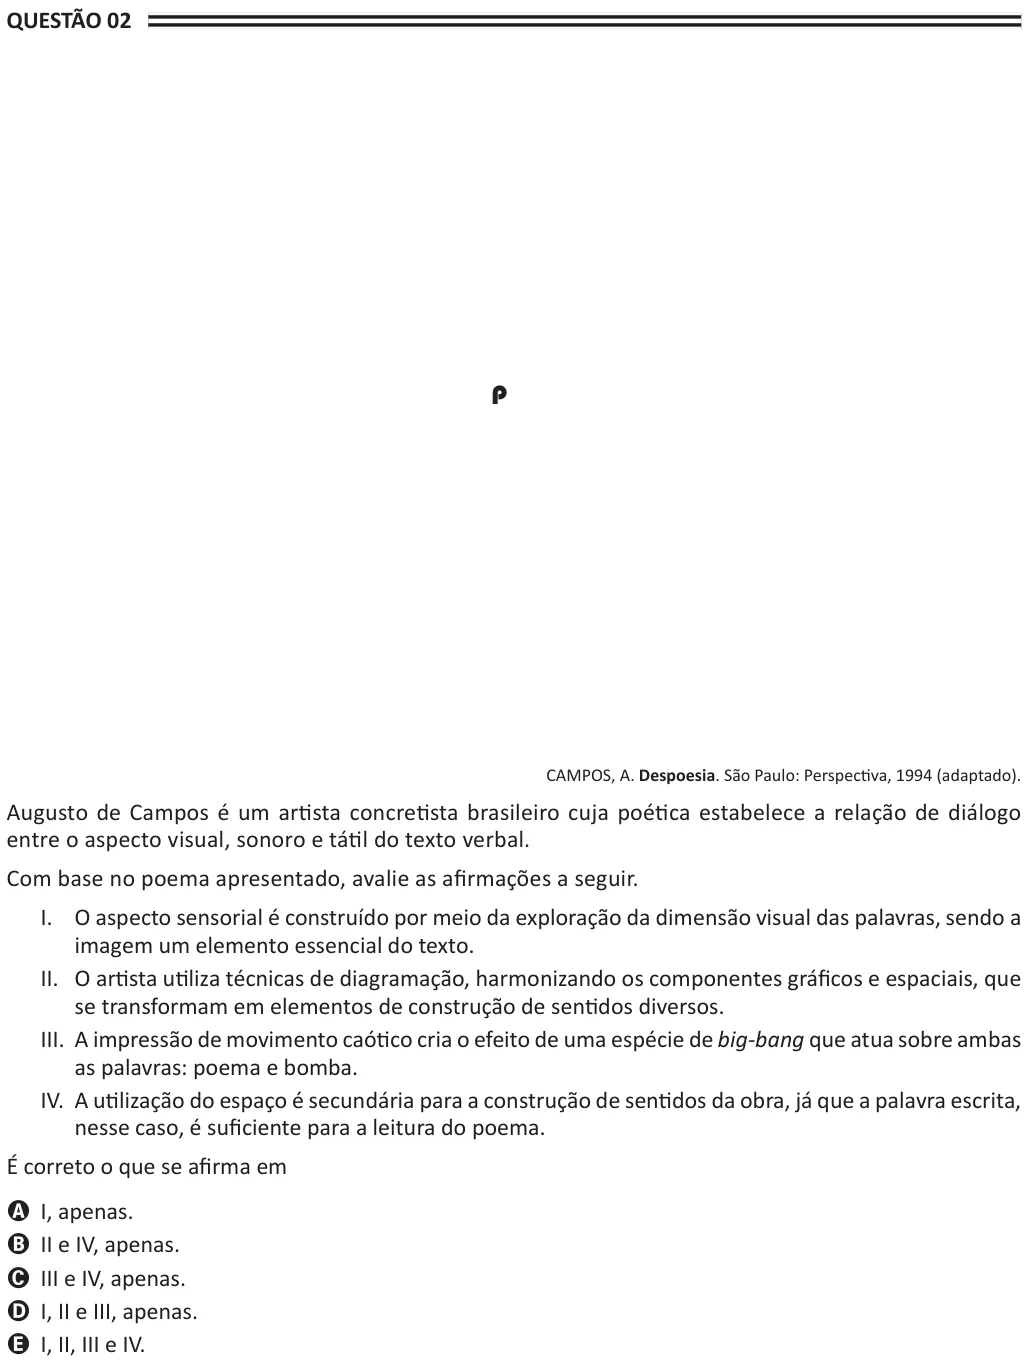
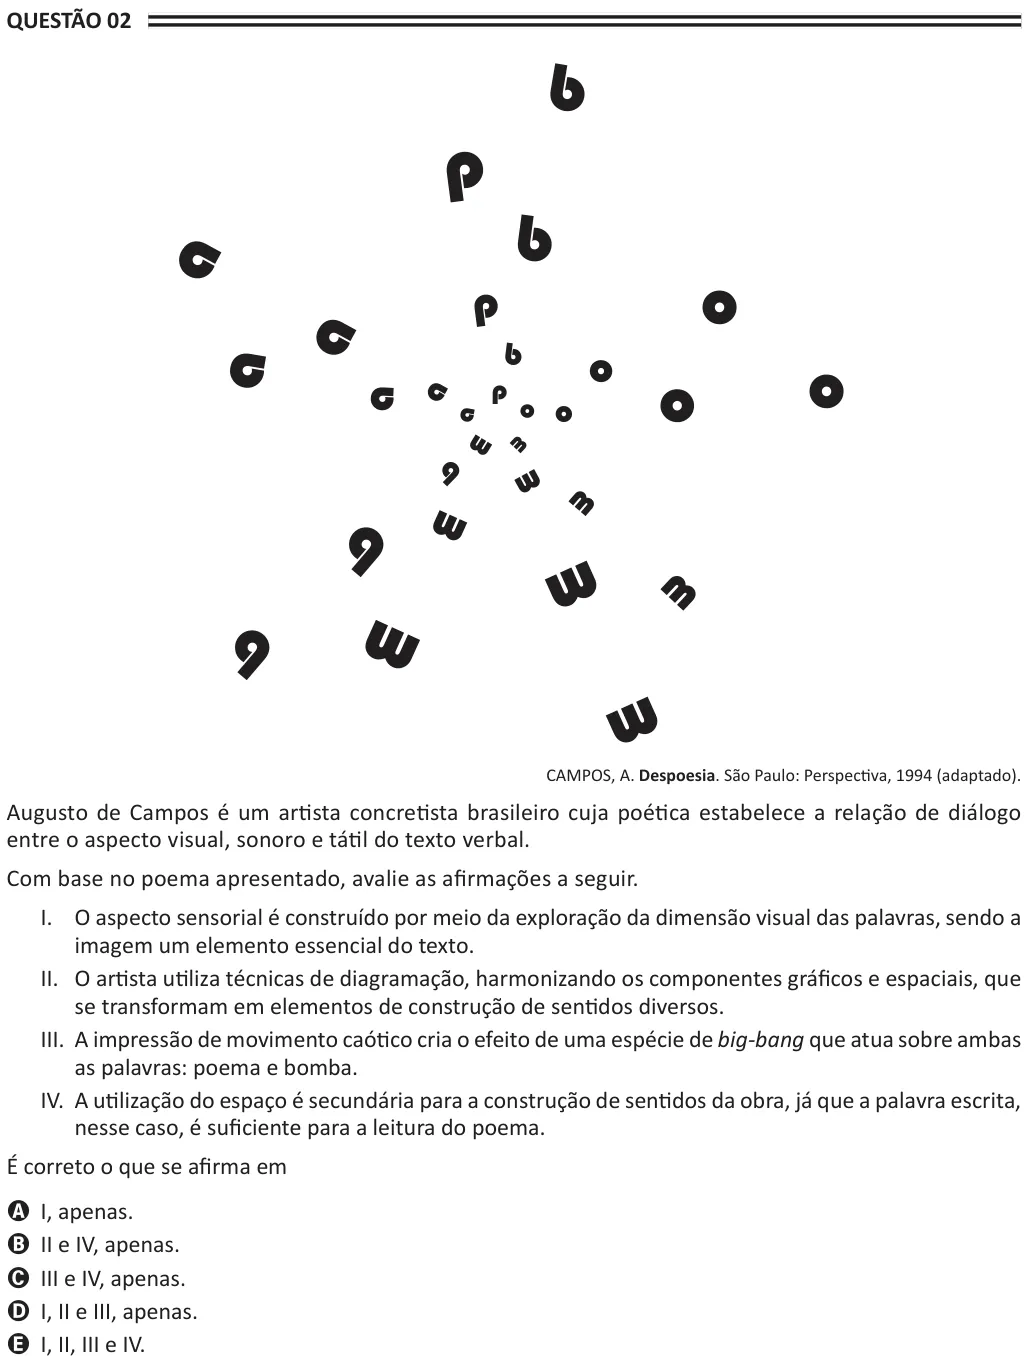
pipeline: mantém texto girado das questões e números no pé da página
O texto girado era todo mascarado como marca de página, o que apagava o
poema concreto de 2019 Q2 e rótulos de gráficos (países em 2017 Q1, anos
na diagonal em 2014 Q3, eixos verticais). Agora só são mascarados o
aviso de recorte, o "Continua" em curva e marcas repetidas na mesma
posição em várias páginas.

O cabeçalho/rodapé repetido passa a exigir a mesma posição horizontal, e
o rótulo de rodapé exige letras, para não apagar opções numéricas como
0111/1011 (2008 Q43).

diff --git a/pipeline/questions.py b/pipeline/questions.py
@@ -36,6 +36,8 @@ _SHARED = re.compile(
     re.IGNORECASE,
 )
 # Aplicado ao texto sem espaços (em 2005 o rótulo vem como "RASCUNH O").
+# Aviso de "vire a página" (em 2008 vem escrito em curva, junto de uma seta).
+_PAGE_TURN = re.compile(r"^(CONTINUA|VIREAP[ÁA]GINA)\W*$", re.IGNORECASE)
 _CUT = re.compile(r"^(RASCUNHO|.?REALIVRE)", re.IGNORECASE)
 # Título de bloco por ênfase nos cadernos de Engenharia Grupo II (linha inteira).
 _SECTION = re.compile(r"^(CONTROLE E AUTOMAÇÃO|ELETRÔNICA|ELETROTÉCNICA|TELECOMUNICAÇÕES)$")
@@ -46,6 +48,7 @@ _FURNITURE_BAND = 0.13  # fração da altura no topo e na base
 _FURNITURE_MIN_PAGES = 3
 _FURNITURE_MIN_SHARE = 0.2  # fração das páginas
 _FURNITURE_Y_TOLERANCE = 3.0
+_FURNITURE_X_TOLERANCE = 20.0
 _FOOTER_LABEL_MIN_PAGES = 2
 _NUMBER_HEADING_MAX_INDENT = 15.0
 _NUMBER_HEADING_MIN_SIZE = 10.0
@@ -57,6 +60,7 @@ _BODY_MIN_CHARS = 20
 _GUTTER_SEARCH = 60
 _CUT_MAX_INDENT = 40.0
 _CONTENT_PAD = 3.0
+_ROTATED_GAP = 6.0  # pt entre letras de uma mesma palavra girada
 _ATTACH_GAP = 4.0
 _THIN_LINE = 1.5  # pt
 _COLUMN_OVERFLOW = 6.0  # quanto texto da coluna pode passar da divisória
@@ -114,6 +118,7 @@ class _PageLayout:
     columns: list[tuple[float, float]]  # faixas x de cada coluna
     margins: list[float] = field(default_factory=list)  # menor x0 do texto em cada coluna
     spanning: list[Rect] = field(default_factory=list)  # linhas que cruzam a divisória
+    rotated_content: list[Rect] = field(default_factory=list)  # texto girado que faz parte da questão
     spanning_body: list[Rect] = field(default_factory=list)  # idem, só linhas de corpo
     right_body: list[Rect] = field(default_factory=list)  # linhas de corpo só da coluna direita
 
@@ -170,9 +175,18 @@ def _decode_line(bbox: Rect, page_traces: list[dict], glyphs: dict[str, dict[int
     return "".join(c for _x, c in sorted(chars))
 
 
-def _extract(doc: pymupdf.Document) -> tuple[list[_Line], list[_PageLayout], dict[int, list[Rect]]]:
+@dataclass(frozen=True)
+class _Rotated:
+    page: int
+    bbox: Rect
+    text: str
+
+
+def _extract(doc: pymupdf.Document
+             ) -> tuple[list[_Line], list[_PageLayout], dict[int, list[Rect]], list[_Rotated]]:
     lines: list[_Line] = []
     masks: dict[int, list[Rect]] = defaultdict(list)
+    rotated: list[_Rotated] = []
     sizes = [(p.rect.width, p.rect.height) for p in doc]
     traces: list[list[dict]] | None = None
     glyphs: dict[str, dict[int, str]] = {}
@@ -186,7 +200,7 @@ def _extract(doc: pymupdf.Document) -> tuple[list[_Line], list[_PageLayout], dic
                 bbox = tuple(line["bbox"])
                 dx, dy = line["dir"]
                 if abs(dy) > 0.01 or dx < 0:
-                    masks[pno].append(bbox)
+                    rotated.append(_Rotated(pno, bbox, "".join(s["text"] for s in spans).strip()))
                     continue
                 text = "".join(s["text"] for s in spans)
                 if not text.strip():
@@ -208,7 +222,54 @@ def _extract(doc: pymupdf.Document) -> tuple[list[_Line], list[_PageLayout], dic
 
     layouts = [_layout(w, h, [ln for ln in lines if ln.page == pno])
                for pno, (w, h) in enumerate(sizes)]
-    return lines, layouts, masks
+    return lines, layouts, masks, rotated
+
+
+def _rotated_words(rotated: list[_Rotated]) -> dict[int, str]:
+    """Junta fragmentos girados vizinhos (texto em curva vem letra a letra) e
+    devolve, para cada fragmento, a palavra a que ele pertence."""
+    word: dict[int, str] = {}
+    by_page: dict[int, list[int]] = defaultdict(list)
+    for i, r in enumerate(rotated):
+        by_page[r.page].append(i)
+    for idxs in by_page.values():
+        idxs.sort(key=lambda i: rotated[i].bbox[0])
+        groups: list[list[int]] = []
+        for i in idxs:
+            b = rotated[i].bbox
+            last = groups[-1][-1] if groups else None
+            if last is not None:
+                lb = rotated[last].bbox
+                if b[0] - lb[2] <= _ROTATED_GAP and abs((b[1] + b[3]) / 2 - (lb[1] + lb[3]) / 2) <= _ROTATED_GAP * 2:
+                    groups[-1].append(i)
+                    continue
+            groups.append([i])
+        for g in groups:
+            text = "".join(rotated[i].text for i in g)
+            for i in g:
+                word[i] = text
+    return word
+
+
+def _split_rotated(rotated: list[_Rotated], page_count: int) -> tuple[list[_Rotated], list[_Rotated]]:
+    """(marcas, conteúdo). Texto girado é conteúdo (rótulo de eixo, poema concreto)
+    a menos que seja marca d'água de rascunho ou se repita na mesma posição em boa
+    parte das páginas, como o ano impresso na vertical em todas as folhas."""
+    min_pages = max(_FURNITURE_MIN_PAGES, round(_FURNITURE_MIN_SHARE * page_count))
+    words = _rotated_words(rotated)
+    marks, content = [], []
+    for i, r in enumerate(rotated):
+        cx, cy = (r.bbox[0] + r.bbox[2]) / 2, (r.bbox[1] + r.bbox[3]) / 2
+        same = {o.page for o in rotated
+                if _normalize(o.text) == _normalize(r.text)
+                and abs((o.bbox[0] + o.bbox[2]) / 2 - cx) <= _FURNITURE_Y_TOLERANCE * 3
+                and abs((o.bbox[1] + o.bbox[3]) / 2 - cy) <= _FURNITURE_Y_TOLERANCE * 3}
+        word = _squeeze(words[i])
+        if _CUT.match(word) or _PAGE_TURN.match(word) or len(same) >= min_pages:
+            marks.append(r)
+        else:
+            content.append(r)
+    return marks, content
 
 
 # --------------------------------------------------------------------------
@@ -227,16 +288,21 @@ def _mark_furniture(lines: list[_Line], sizes: list[tuple[float, float]], number
         if (_in_band(ln, sizes) and not (number_headings and _is_number_heading(ln, sizes)) and not ln.option
                 and not _HEADING.match(_squeeze(ln.text)) and not _CUT.match(_squeeze(ln.text))):
             by_key[_normalize(ln.text)].append(ln)
-    # Cabeçalho/rodapé de verdade se repete na mesma altura em boa parte das
-    # páginas; alternativas iguais ("I, apenas.") só coincidem de vez em quando.
+    # Cabeçalho/rodapé de verdade se repete no mesmo lugar (altura e posição
+    # horizontal) em boa parte das páginas; alternativas iguais ("I, apenas.") ou
+    # números de questão no pé da página só coincidem de vez em quando.
     min_pages = max(_FURNITURE_MIN_PAGES, round(_FURNITURE_MIN_SHARE * len(sizes)))
     for group in by_key.values():
         for ln in group:
-            pages = {o.page for o in group if abs(o.y0 - ln.y0) <= _FURNITURE_Y_TOLERANCE}
+            cx = (ln.x0 + ln.bbox[2]) / 2
+            pages = {o.page for o in group
+                     if abs(o.y0 - ln.y0) <= _FURNITURE_Y_TOLERANCE
+                     and abs((o.x0 + o.bbox[2]) / 2 - cx) <= _FURNITURE_X_TOLERANCE}
             w, h = sizes[ln.page]
             # Rodapé de ênfase ("LICENCIATURA", "SISTEMAS DE INFORMAÇÃO"): rótulo em
             # maiúsculas, centralizado, que só aparece nas poucas páginas do bloco.
-            footer_label = (not any(c.islower() for c in ln.text) and ln.y0 >= h * (1 - _FURNITURE_BAND)
+            footer_label = (sum(c.isalpha() for c in ln.text) >= 4 and not any(c.islower() for c in ln.text)
+                            and ln.y0 >= h * (1 - _FURNITURE_BAND)
                             and abs((ln.x0 + ln.bbox[2]) / 2 - w / 2) <= 0.15 * w)
             if len(pages) >= (_FOOTER_LABEL_MIN_PAGES if footer_label else min_pages):
                 ln.furniture = True
@@ -248,7 +314,7 @@ def _mark_furniture(lines: list[_Line], sizes: list[tuple[float, float]], number
     for ln in short:
         cx = (ln.x0 + ln.bbox[2]) / 2
         pages = {o.page for o in short
-                 if abs(o.y0 - ln.y0) <= _FURNITURE_Y_TOLERANCE and abs((o.x0 + o.bbox[2]) / 2 - cx) <= 20}
+                 if abs(o.y0 - ln.y0) <= _FURNITURE_Y_TOLERANCE and abs((o.x0 + o.bbox[2]) / 2 - cx) <= _FURNITURE_X_TOLERANCE}
         if len(pages) >= min_pages:
             ln.furniture = True
 
@@ -470,7 +536,12 @@ def _compute_spanning(lines: list[_Line], layouts: list[_PageLayout]) -> None:
 
 def _prepare(doc: pymupdf.Document, heading_mode: HeadingMode = "questao"
              ) -> tuple[list[_Line], list[_PageLayout], dict[int, list[Rect]]]:
-    lines, layouts, masks = _extract(doc)
+    lines, layouts, masks, rotated = _extract(doc)
+    rotated_marks, rotated_content = _split_rotated(rotated, len(layouts))
+    for r in rotated_marks:
+        masks[r.page].append(r.bbox)
+    for r in rotated_content:
+        layouts[r.page].rotated_content.append(r.bbox)
     _mark_furniture(lines, [(lay.width, lay.height) for lay in layouts], heading_mode == "number")
     for ln in lines:
         ln.column = _column_of(ln.x0, layouts[ln.page])
@@ -497,6 +568,8 @@ def _content_boxes(doc: pymupdf.Document, lines: list[_Line],
     for ln in lines:
         if not ln.furniture:
             boxes[ln.page].append((ln.bbox, True))
+    for pno, layout in enumerate(layouts):
+        boxes[pno].extend((r, True) for r in layout.rotated_content)
     for pno, page in enumerate(doc):
         h = layouts[pno].height
         top, bottom = h * _FURNITURE_BAND, h * (1 - _FURNITURE_BAND)

diff --git a/pipeline/tests/test_questions.py b/pipeline/tests/test_questions.py
@@ -254,3 +254,69 @@ def test_codigo_de_barras_com_menos_digitos_e_mobilia(located):
     # a Q1 termina na p4 e não pode levar o código do topo da p5.
     _doc, loc = located("2021-b")
     assert {s.page for s in loc.segments[1]} == {4}
+
+
+def _rotated_lines(doc, page):
+    out = []
+    for block in doc[page].get_text("dict")["blocks"]:
+        for line in block.get("lines", []):
+            dx, dy = line["dir"]
+            if abs(dy) > 0.01 or dx < 0:
+                out.append((line["bbox"], "".join(s["text"] for s in line["spans"]).strip()))
+    return out
+
+
+def _masked(loc, page, bbox):
+    cx, cy = (bbox[0] + bbox[2]) / 2, (bbox[1] + bbox[3]) / 2
+    return any(m[0] <= cx <= m[2] and m[1] <= cy <= m[3] for m in loc.masks.get(page, []))
+
+
+@pytest.mark.parametrize(
+    "booklet_id,n",
+    # poema concreto com letras giradas (2019) e rótulos girados de gráficos (2017, 2014, 2005)
+    [("2019-e", 2), ("2017-b", 1), ("2014-b", 3), ("2005-engenharia", 13)],
+)
+def test_texto_girado_da_questao_aparece(located, booklet_id, n):
+    doc, loc = located(booklet_id)
+    for s in loc.segments[n]:
+        inside = [(b, t) for b, t in _rotated_lines(doc, s.page)
+                  if s.x0 <= (b[0] + b[2]) / 2 <= s.x1 and s.y0 <= (b[1] + b[3]) / 2 <= s.y1]
+        apagados = [t for b, t in inside if _masked(loc, s.page, b)]
+        assert not apagados, f"questão {n}: texto girado apagado {apagados[:5]}"
+
+
+def test_marcas_giradas_de_pagina_continuam_mascaradas(located):
+    # 2008/e1: "RASCUNHO" na diagonal e o "2008" vertical repetido nas folhas são
+    # marcas da página, não conteúdo (a capa, sem questões, fica de fora).
+    doc, loc = located("2008-engenharia")
+    pages = {s.page for segs in loc.segments.values() for s in segs}
+    checked = 0
+    for page in sorted(pages):
+        for b, t in _rotated_lines(doc, page):
+            if t in ("RASCUNHO", "2008"):
+                checked += 1
+                assert _masked(loc, page, b), f"p{page}: {t!r} não mascarado"
+    assert checked > 10
+
+
+@pytest.mark.parametrize(
+    "booklet_id,n,words",
+    # números no pé da página que são alternativas/dados, não número de página
+    [("2008-computacao", 43, ["0111", "1011"]), ("2008-computacao", 18, ["24", "25"])],
+)
+def test_numeros_da_questao_no_rodape_aparecem(located, booklet_id, n, words):
+    doc, loc = located(booklet_id)
+    visible = " ".join(_visible_text(doc, loc, s) for s in loc.segments[n]).split()
+    for w in words:
+        assert w in visible, f"questão {n}: {w!r} apagado"
+
+
+def test_seta_continua_em_curva_fica_fora(located):
+    # 2008/e1 p24: "Continua" escrito letra a letra numa curva, junto de uma seta,
+    # no pé da página. É aviso de "vire a página", não parte da Q40.
+    doc, loc = located("2008-engenharia")
+    letras = [(b, t) for b, t in _rotated_lines(doc, 24) if b[1] > 740]
+    assert "".join(t for _b, t in sorted(letras, key=lambda x: x[0][0])) == "Continua"
+    for b, t in letras:
+        assert _masked(loc, 24, b), f"{t!r} não mascarado"
+    assert max(s.y1 for s in loc.segments[40]) < 745
